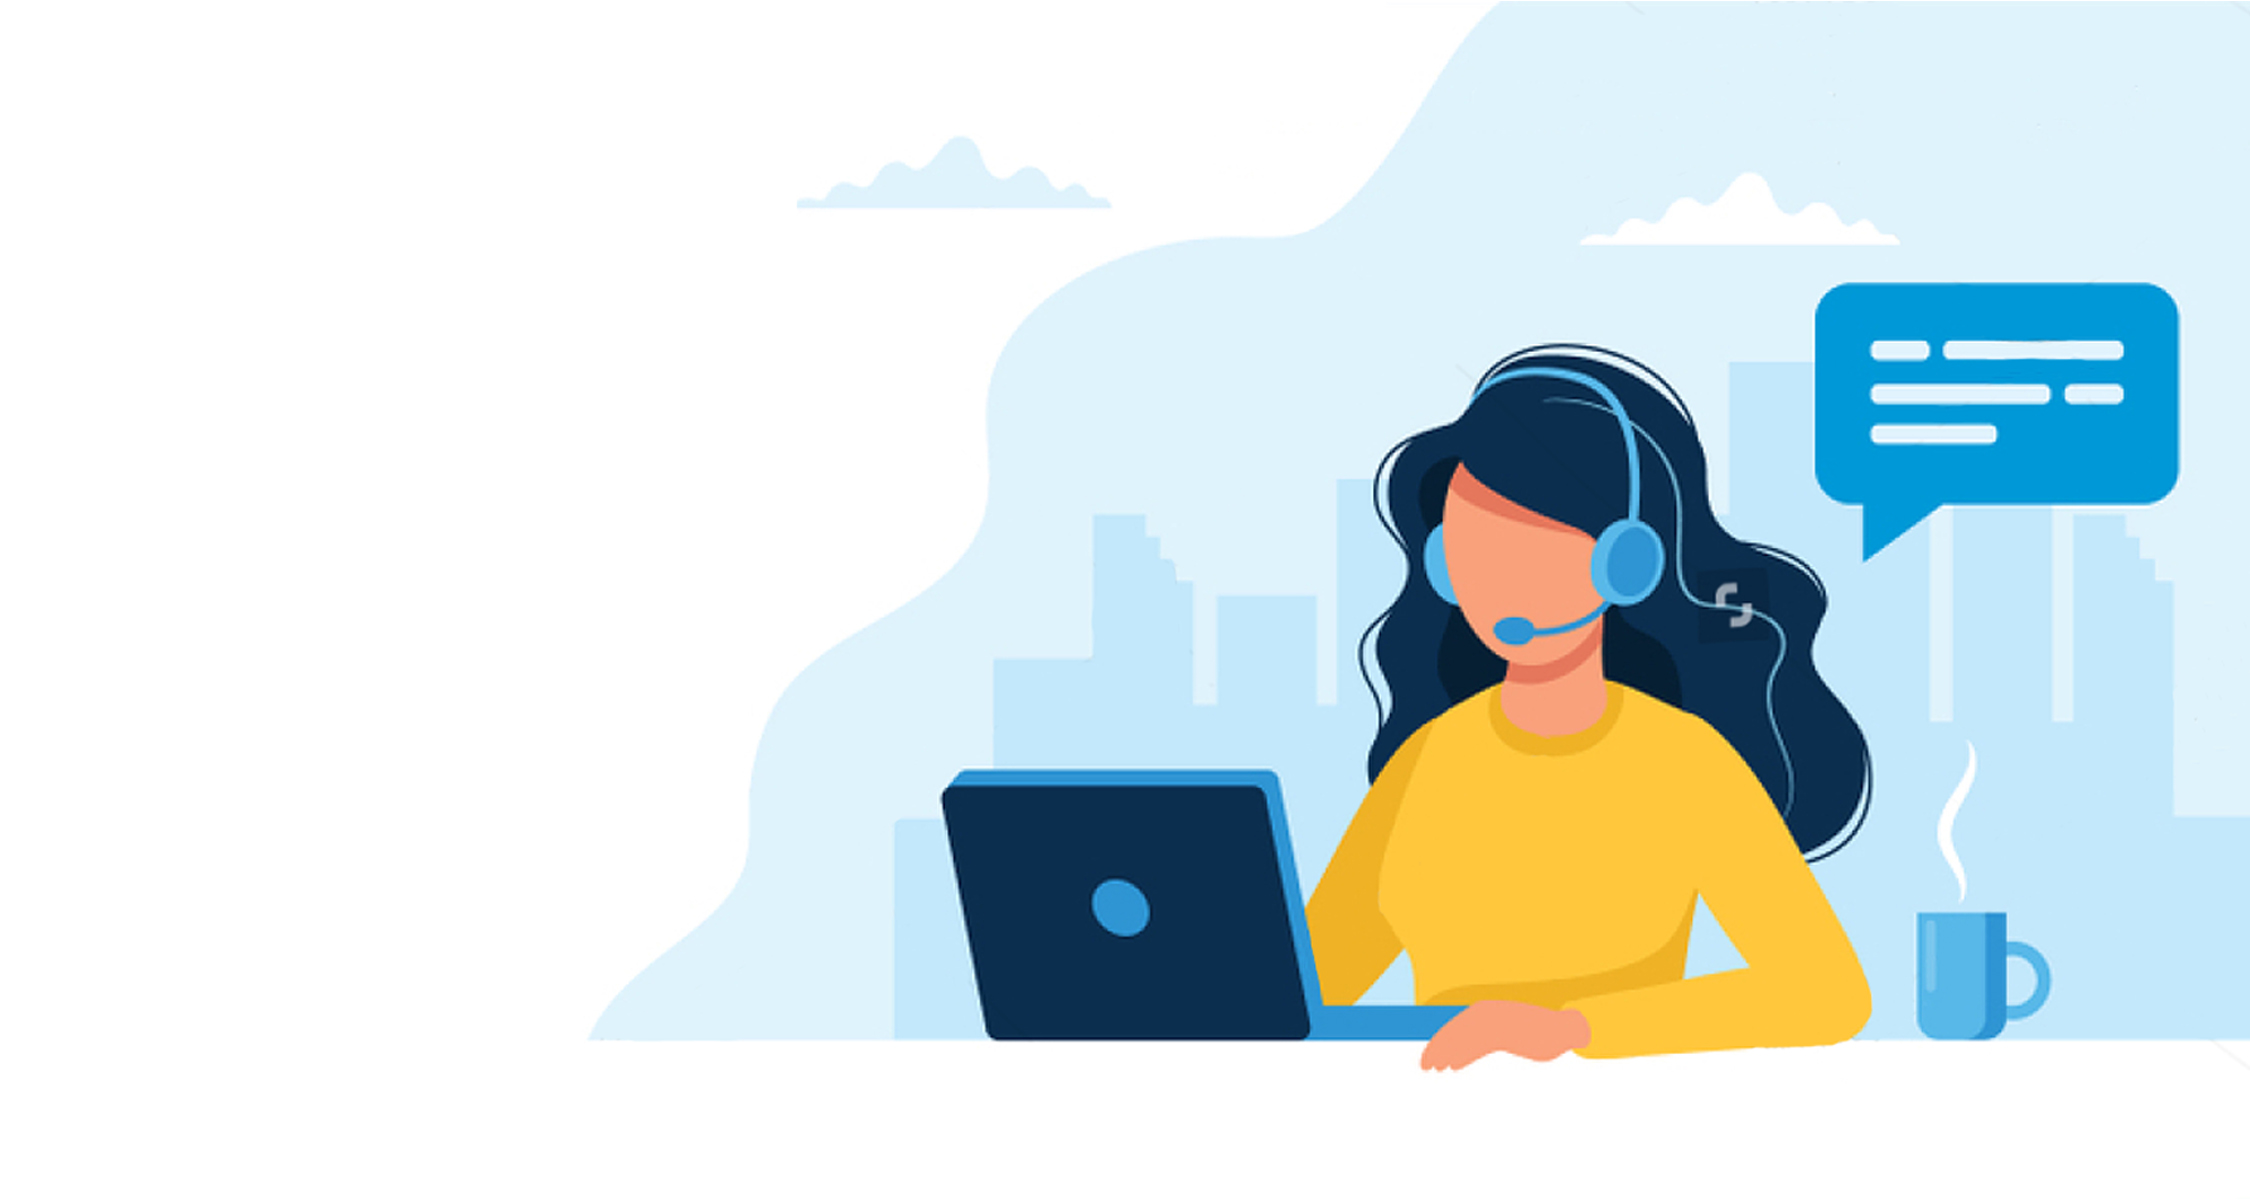
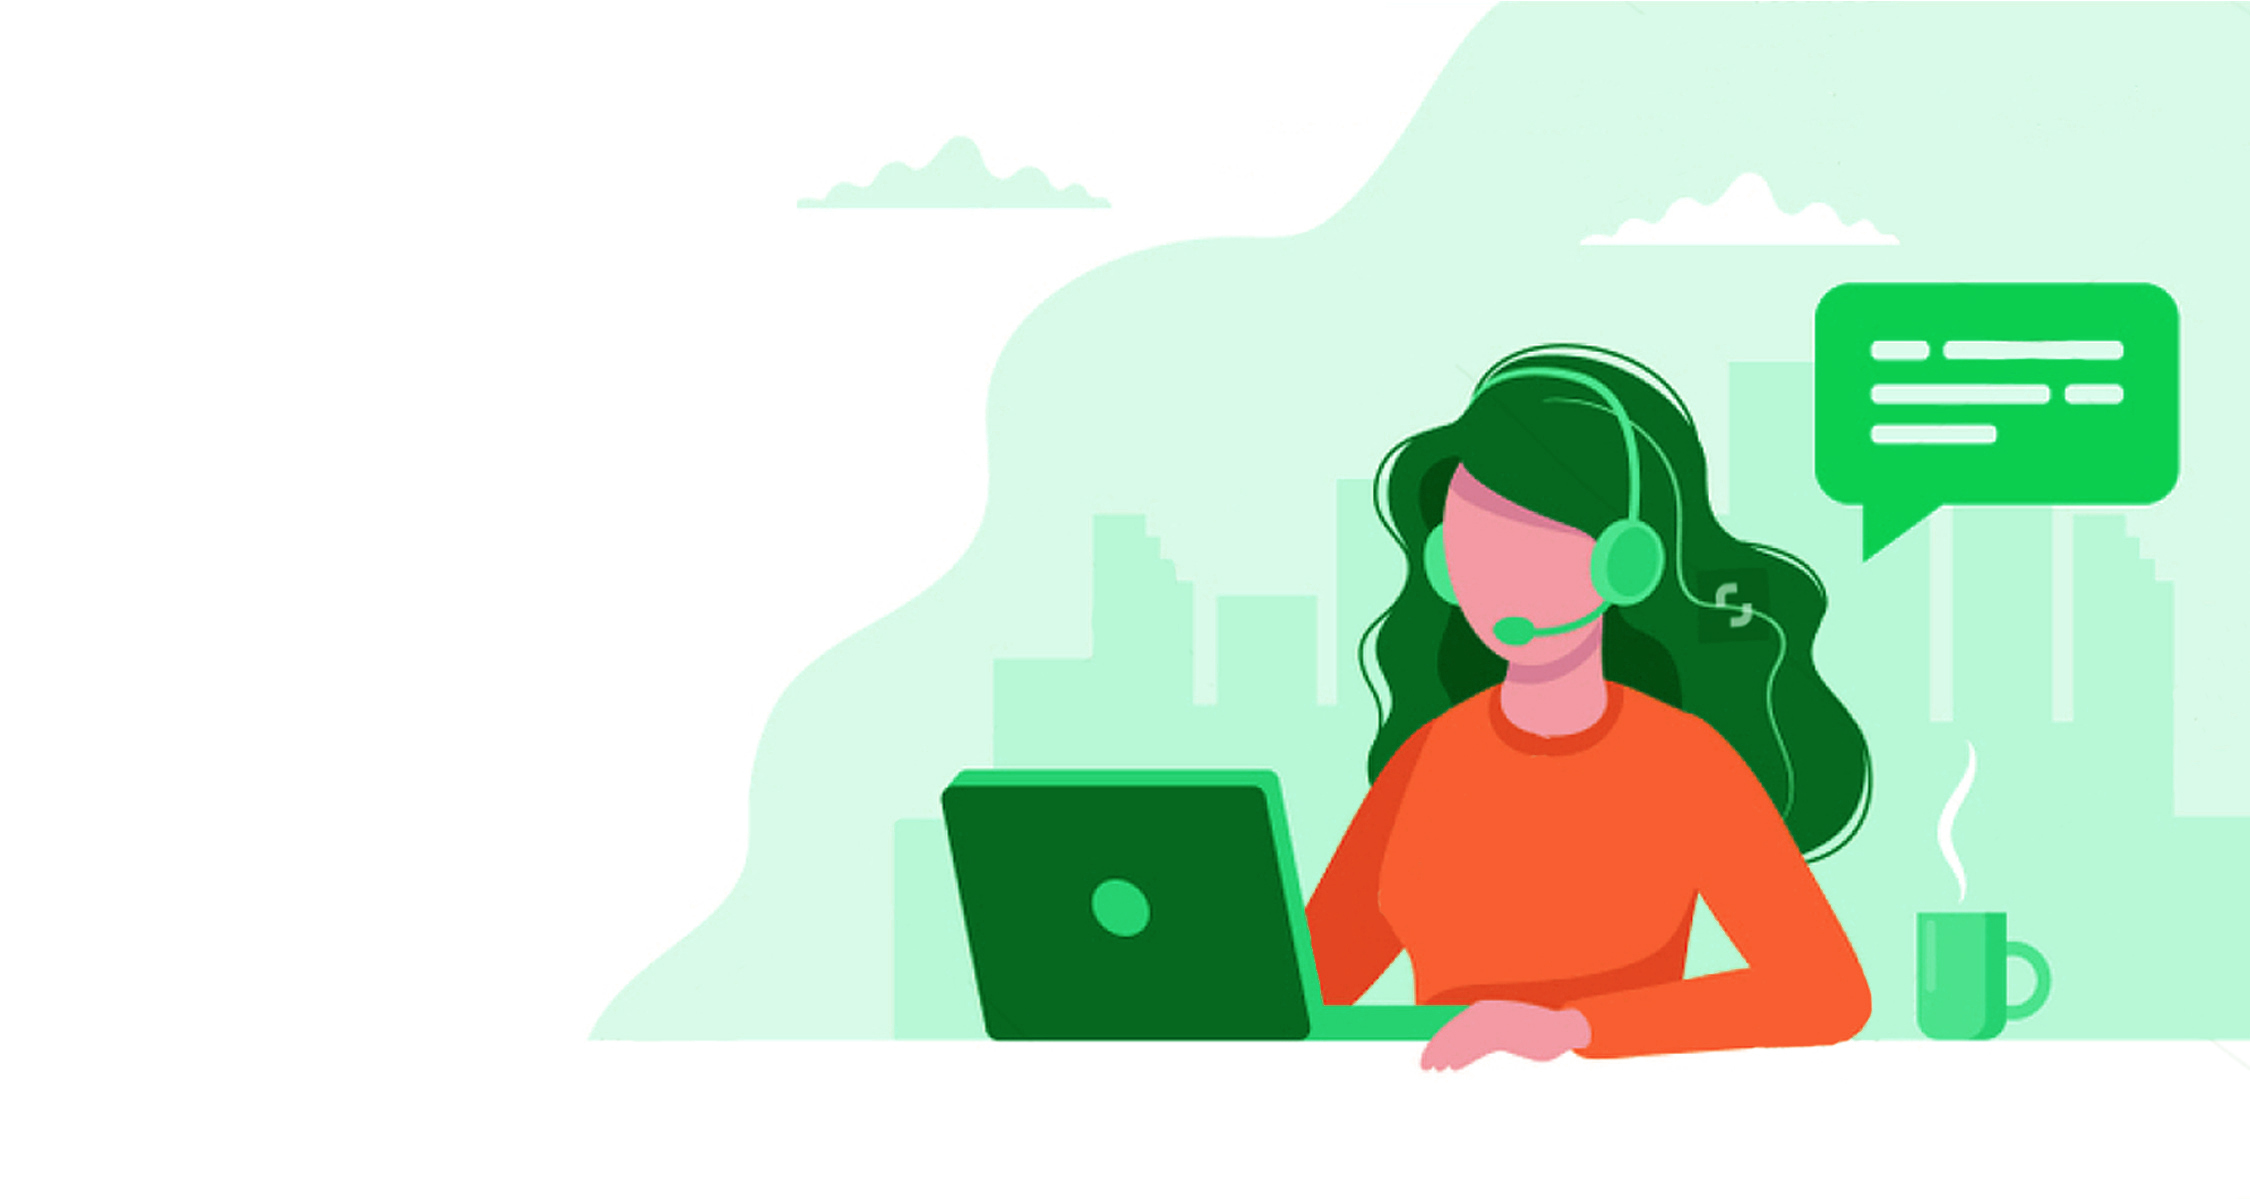
nc1

Changed region(s): [[0.3733, 0.2158, 1.0, 0.8942]]

diff --git a/style/about.css b/style/about.css
@@ -6,10 +6,10 @@
 }
 
 .main-page {
-  background: url("../images/background.jpg") no-repeat;
-  background-size: cover;
+  width: 100%;
   min-height: 100vh;
 }
+
 .gradient-btn {
   display: grid;
   place-items: center;
@@ -17,9 +17,9 @@
   color: #fff;
   background-image: linear-gradient(
     to right,
-    #4162cf 0%,
-    #0072ff 51%,
-    #4162cf 100%
+    #007430 0%,
+    #4faf77  51%,
+    #2caf65 100%
   );
   border-radius: 10px;
   background-size: 200% auto;
@@ -43,6 +43,7 @@
 .about > h1 {
   font-size: 3rem;
   margin: 1rem 0;
+  color: #007430;
 }
 
 .about-sub {
@@ -58,6 +59,7 @@
   width: 300px;
   max-width: 90%;
   animation: animateimage 1s linear;
+  background-image: url("../images/intro-image.png");
 }
 
 @keyframes animateimage {
@@ -128,4 +130,17 @@
   border-radius: 3px;
   /* box-shadow: 0.4px 0.4px 3px  var(--black-color); */
   color: #fff;
+}
+.for-clippath {
+  position: absolute;
+  top: 0;
+  z-index: -2;
+  width: 100%;
+  min-height: 100vh;
+  /* background-color: #15a3502c; */
+  background-image: url("../images/background.jpg");
+  background-size: cover;
+  /* clip-path: circle(51.4% at 93% 35%); */
+  clip-path: circle(60.9% at 100% 47%);
+
 }

diff --git a/style/sidenav.css b/style/sidenav.css
@@ -101,23 +101,22 @@ nav ul li a {
   text-decoration: none;
   color: inherit;
   /* border-radius: 5px; */
-  margin-bottom: 5px;
+  margin-top: 10px;
   /* border-bottom: #464646 solid 1px; */
 
   gap: 15px;
 }
 .admin-box .box:last-child {
-  border-top: #c3c3c3 1px solid;
   position: absolute;
-  bottom: 0;
+  bottom: 5px;
   /* border-radius: 5px; */
   /* background-color: #00ad48; */
   color: #ebebeb;
-  width: 100%;
+  width: 90%;
 }
 
 .admin-box .box:hover {
-  background-color: #008537;
+  background-color: #01a144;
   border-radius: 5px;
 }
 .user-profile {

diff --git a/style/favorite.css b/style/favorite.css
@@ -34,8 +34,8 @@ html {
   border-radius: 5px;
 }
 
-.admin-box .dashboard {
-  background-color: #008537;
+.admin-box .favorite {
+  background-color: #01a144;
   border-radius: 5px;
 }
 div.down-side {
@@ -93,10 +93,9 @@ table th {
   
   .mp-list {
     width: 100%;
-    margin-inline: auto;
     display: flex;
-    justify-content: center;
     flex-wrap: wrap;
+    padding: 30px;
   }
   
   .mp-list .img-list {

diff --git a/style/contact.css b/style/contact.css
@@ -134,7 +134,7 @@
 }
 
 .contact-form form button {
-  background-color: royalblue;
+  background-color: #007430;
   height: 40px;
   color: white;
   border-radius: 5px;
@@ -145,5 +145,5 @@
 }
 
 .contact-form form button:hover {
-  background-color: rgb(10, 38, 120);
+  background-color: #008a39;
 }

diff --git a/style/sales.css b/style/sales.css
@@ -21,8 +21,8 @@ html {
   display: flex;
   overflow: hidden;
 }
-.admin-box .manage-account2 {
-  background-color: #008537;
+.admin-box .sales {
+  background-color: #01a144;
   border-radius: 5px;
 }
 

diff --git a/style/damagedStock.css b/style/damagedStock.css
@@ -80,6 +80,6 @@ input[type="text"],
   margin-inline: auto;
 }
 .admin-box .stock {
-  background-color: #008537;
+  background-color: #01a144;
   border-radius: 5px;
 }

diff --git a/style/expiredStock.css b/style/expiredStock.css
@@ -80,6 +80,6 @@ input[type="text"],
   margin-inline: auto;
 }
 .admin-box .stock {
-  background-color: #008537;
+  background-color: #01a144;
   border-radius: 5px;
 }

diff --git a/style/inventory.css b/style/inventory.css
@@ -67,6 +67,6 @@ input[type="text"],
   margin-inline: auto;
 }
 .admin-box .stock {
-  background-color: #008537;
+  background-color: #01a144;
   border-radius: 5px;
 }

diff --git a/style/oldStock.css b/style/oldStock.css
@@ -80,6 +80,6 @@ input[type="text"],
   margin-inline: auto;
 }
 .admin-box .stock {
-  background-color: #008537;
+  background-color: #01a144;
   border-radius: 5px;
 }

diff --git a/style/addMedicine.css b/style/addMedicine.css
@@ -92,6 +92,6 @@ select {
   border-radius: 5px;
 }
 .admin-box .add-medicine {
-  background-color: #008537;
+  background-color: #01a144;
   border-radius: 5px;
 }

diff --git a/style/manageAccount.css b/style/manageAccount.css
@@ -23,7 +23,7 @@ html {
   overflow: hidden;
 }
 .admin-box .manage-account {
-  background-color: #008537;
+  background-color: #01a144;
   border-radius: 5px;
 }
 

diff --git a/style/editProfile.css b/style/editProfile.css
@@ -84,7 +84,7 @@ select {
 }
 
 .admin-box .edit-profile {
-  background-color: #008537;
+  background-color: #01a144;
   border-radius: 5px;
 }
 div.name {
